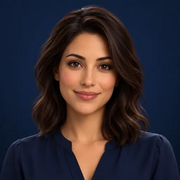
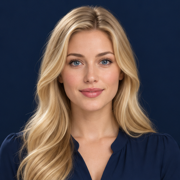
Animate blonde Clara and enable mobile voice replies with English UI

diff --git a/static/companion-voice.js b/static/companion-voice.js
@@ -17,29 +17,42 @@
     const SpeechInput = win.SpeechRecognition || win.webkitSpeechRecognition;
     const synth = win.speechSynthesis;
     let recognition = null, speaking = false, thinking = false, session = 0, preferred = '', greeted = false;
+    // Keep native utterances alive until completion (important on Safari/iOS).
+    let currentUtterance = null, primeUtterance = null, unlocked = false, lastContent = '', watchdog = null;
+    const greeting = 'I am Clara, your AI assistant. What do you wanna talk about?';
+    function clearWatchdog() { if (watchdog !== null && win.clearTimeout) win.clearTimeout(watchdog); watchdog = null; }
+    function unlock() {
+      if (!synth || !win.SpeechSynthesisUtterance) return;
+      if (synth.resume) synth.resume();
+      if (!unlocked) {
+        unlocked = true; primeUtterance = new win.SpeechSynthesisUtterance(' ');
+        primeUtterance.volume = 0; primeUtterance.onend = () => { primeUtterance = null; };
+        primeUtterance.onerror = () => { primeUtterance = null; };
+        try { synth.speak(primeUtterance); } catch (_) { unlocked = false; primeUtterance = null; }
+      }
+    }
     function save(key, value) { try { win.localStorage.setItem(key, value); } catch (_) {} }
     function read(key) { try { return win.localStorage.getItem(key); } catch (_) { return null; } }
-    language.value = read('agentbroker-mic-language') === 'en-US' ? 'en-US' : 'ar-JO';
+    language.value = read('agentbroker-mic-language') === 'ar-JO' ? 'ar-JO' : 'en-US';
     preferred = read('agentbroker-voice') || '';
     function state(value) {
       avatar.dataset.state = value;
-      const en = language.value === 'en-US';
-      avatarStatus.textContent = ({idle:en?'Ready to chat':'جاهزة للحوار',listening:en?'Listening…':'بسمعك…',thinking:en?'Preparing a reply…':'بجهّز الرد…',speaking:en?'Speaking…':'بحكي معك…'})[value];
+      avatarStatus.textContent = ({idle:'Ready to chat',listening:'Listening…',thinking:'Preparing a reply…',speaking:'Speaking…'})[value];
       stop.hidden = value === 'idle' && !mode.checked;
     }
     function updateVoices() {
       const voices = synth ? synth.getVoices() : [];
       voiceSelect.replaceChildren();
-      const auto = doc.createElement('option'); auto.value = ''; auto.textContent = 'صوت نسائي إن توفر / Female voice when available'; voiceSelect.append(auto);
+      const auto = doc.createElement('option'); auto.value = ''; auto.textContent = 'Female voice when available'; voiceSelect.append(auto);
       for (const voice of voices.filter(v => /^(ar|en)(-|$)/i.test(v.lang))) {
         const option = doc.createElement('option'); option.value = voice.voiceURI; option.textContent = voice.name + ' · ' + voice.lang; voiceSelect.append(option);
       }
       voiceSelect.value = [...voiceSelect.options].some(o => o.value === preferred) ? preferred : '';
-      voiceHelp.textContent = 'الأصوات حسب جهازك؛ الاختيار تلقائي حسب لغة الرد. / Voices depend on your device and follow the reply language.';
+      voiceHelp.textContent = 'Voices depend on your device and follow the reply language. Download English and Arabic voices in your device settings if needed.';
     }
     voiceSelect.onchange = () => { preferred = voiceSelect.value; save('agentbroker-voice', preferred); };
     function halt() {
-      mode.checked = false; session++; speaking = false;
+      mode.checked = false; session++; speaking = false; clearWatchdog(); currentUtterance = null;
       if (recognition) recognition.abort();
       if (synth) synth.cancel();
       state(thinking ? 'thinking' : 'idle');
@@ -55,7 +68,7 @@
       input.lang = language.value;
       input.continuous = false; input.interimResults = true; input.maxAlternatives = 1;
       field.readOnly = true; language.disabled = true;
-      input.onstart = () => { if (active === session) { state('listening'); mic.textContent = 'إنهاء الاستماع / Finish'; status.textContent = 'بسمعك… / Listening…'; } };
+      input.onstart = () => { if (active === session) { state('listening'); mic.textContent = 'Finish listening'; status.textContent = 'Listening…'; } };
       input.onresult = event => {
         if (active !== session) return;
         heard = ''; let interim = '';
@@ -71,66 +84,87 @@
       input.onerror = event => {
         if (active !== session) return;
         failed = true; mode.checked = false;
-        const errors = {'not-allowed':'اسمح بالمايك من إعدادات المتصفح. / Allow microphone access in browser settings.', 'service-not-allowed':'التعرف الصوتي غير متاح هنا؛ استخدم إملاء لوحة المفاتيح. / Use keyboard dictation.', 'audio-capture':'المايك غير متاح؛ تحقق من توصيله. / Check your microphone.', 'no-speech':'ما سمعت كلام؛ اضغط المايك وجرب مجدداً. / No speech heard; tap the microphone to retry.', 'network':'تعذر الاتصال بخدمة الصوت؛ استخدم إملاء لوحة المفاتيح. / Speech service connection failed.'};
-        status.textContent = errors[event.error] || 'تعذر سماع الكلام؛ راجع لغة المايك أو استخدم إملاء لوحة المفاتيح. / Check the mic language or use keyboard dictation.';
+        const errors = {'not-allowed':'Allow microphone access in browser settings.', 'service-not-allowed':'Speech recognition unavailable; use keyboard dictation.', 'audio-capture':'Check your microphone.', 'no-speech':'No speech heard; tap the microphone to retry.', 'network':'Speech service connection failed; use keyboard dictation.'};
+        status.textContent = errors[event.error] || 'Check the mic language or use keyboard dictation.';
       };
       input.onend = () => {
         if (recognition === input) recognition = null;
         field.readOnly = thinking; language.disabled = false; transcript.textContent = '';
-        mic.textContent = '🎤 احكي / Speak';
+        mic.textContent = '🎤 Speak';
         if (active !== session) return;
         state('idle');
         if (!failed && heard.trim()) {
-          status.textContent = mode.checked ? 'جاري إرسال كلامك… / Sending…' : 'راجع الكلام ثم اضغط إرسال. / Review the transcript, then Send.';
+          status.textContent = mode.checked ? 'Sending…' : 'Review the transcript, then Send.';
           if (mode.checked) get('companion-form').requestSubmit();
         } else if (!failed) {
           mode.checked = false;
-          status.textContent = 'ما وصل نص واضح؛ جرّب مجدداً. / No clear transcript; try again.';
+          status.textContent = 'No clear transcript; try again.';
         }
       };
       try { state('listening'); input.start(); }
-      catch (_) { recognition = null; field.readOnly = false; language.disabled = false; halt(); status.textContent = 'تعذر تشغيل المايك؛ استخدم إملاء لوحة المفاتيح. / Use keyboard dictation.'; }
+      catch (_) { recognition = null; field.readOnly = false; language.disabled = false; halt(); status.textContent = 'Microphone unavailable; use keyboard dictation.'; }
     }
     function speak(content, keepInputLanguage = false) {
       if (!synth || !win.SpeechSynthesisUtterance) {
-        mode.checked = false; status.textContent = 'الصوت غير مدعوم هنا. / Speech playback unavailable.'; state('idle'); return;
+        mode.checked = false; status.textContent = 'Speech playback unavailable. Open Clara in Safari or Chrome.'; state('idle'); return;
       }
+      content = String(content || '').trim(); if (!content) return;
+      lastContent = content; unlocked = true; clearWatchdog();
       session++; const active = session;
       if (recognition) recognition.abort();
-      synth.cancel();
-      const utterance = new win.SpeechSynthesisUtterance(content);
-      utterance.lang = isArabic(content) ? 'ar-JO' : 'en-US';
-      const selected = chooseVoice(synth.getVoices(), utterance.lang, preferred);
-      if (selected) utterance.voice = selected;
-      if (mode.checked && !keepInputLanguage) { language.value = isArabic(content) ? 'ar-JO' : 'en-US'; save('agentbroker-mic-language', language.value); }
-      utterance.rate = 1;
-      utterance.onstart = () => { if (active === session) { speaking = true; state('speaking'); status.textContent = ''; } };
-      utterance.onend = () => {
+      synth.cancel(); if (synth.resume) synth.resume();
+      const lang = isArabic(content) ? 'ar-JO' : 'en-US';
+      if (mode.checked && !keepInputLanguage) { language.value = lang; save('agentbroker-mic-language', language.value); }
+      // Short chunks avoid long-utterance stalls in mobile speech engines.
+      const words = content.split(/\s+/), chunks = []; let chunk = '';
+      for (const word of words) { if (chunk && (chunk+' '+word).length > 180) { chunks.push(chunk); chunk=''; } chunk += (chunk?' ':'')+word; }
+      if (chunk) chunks.push(chunk);
+      function audioFailed() {
         if (active !== session) return;
-        speaking = false; state('idle');
-        if (mode.checked && !doc.hidden) listen();
-      };
-      utterance.onerror = () => {
-        if (active !== session) return;
-        speaking = false; mode.checked = false; state('idle');
-        status.textContent = 'تعذر تشغيل الصوت؛ اضغط اسمع لإعادة المحاولة. / Audio failed; tap Listen to retry.';
-      };
-      synth.speak(utterance);
+        clearWatchdog(); session++; speaking = false; mode.checked = false; currentUtterance = null; synth.cancel(); state('idle');
+        status.textContent = 'Audio could not start. Tap Clara or Listen to play the reply. Check your device volume and selected voice.';
+      }
+      function play(index) {
+        if (active !== session || doc.hidden) return;
+        const utterance = new win.SpeechSynthesisUtterance(chunks[index]); currentUtterance = utterance;
+        utterance.lang = lang;
+        const selected = chooseVoice(synth.getVoices(), lang, preferred);
+        if (selected) utterance.voice = selected;
+        utterance.rate = 1; utterance.volume = 1;
+        utterance.onstart = () => {
+          if (active !== session) return;
+          clearWatchdog(); speaking = true; state('speaking'); status.textContent = '';
+          const help = get('audio-help'); if (help) help.textContent = 'Voice enabled. Replies are read aloud while this page is open.';
+        };
+        utterance.onend = () => {
+          if (active !== session) return;
+          clearWatchdog(); currentUtterance = null;
+          if (index+1 < chunks.length) { play(index+1); return; }
+          speaking = false; state('idle');
+          if (mode.checked && !doc.hidden) listen();
+        };
+        utterance.onerror = audioFailed;
+        if (win.setTimeout) watchdog = win.setTimeout(audioFailed, 5000);
+        try { synth.speak(utterance); } catch (_) { audioFailed(); }
+      }
+      play(0);
     }
-    mic.onclick = listen;
-    stop.onclick = () => { halt(); status.textContent = 'توقفت المحادثة الصوتية. / Voice conversation stopped.'; };
+    // This is a deliberate user gesture, so it also works as Safari's audio unlock.
+    avatar.onclick = () => { if (thinking) return; speak(lastContent || greeting, true); };
+    mic.onclick = () => { unlock(); listen(); };
+    stop.onclick = () => { halt(); status.textContent = 'Voice conversation stopped.'; };
     mode.onchange = () => {
       if (!mode.checked) { halt(); return; }
-      if (!synth) { halt(); status.textContent = 'الصوت غير مدعوم هنا. / Speech playback unavailable.'; return; }
-      if (!greeted) { greeted = true; speak('I am Clara, your AI assistant. What do you wanna talk about?', true); }
+      if (!synth) { halt(); status.textContent = 'Speech playback unavailable. Open Clara in Safari or Chrome.'; return; }
+      if (!greeted) { greeted = true; speak(greeting, true); }
       else listen();
     };
     language.onchange = () => { save('agentbroker-mic-language', language.value); state('idle'); };
     doc.addEventListener('visibilitychange', () => { if (doc.hidden) halt(); });
-    if (!SpeechInput) { mic.disabled = true; mode.disabled = true; status.textContent = 'استخدم مايك لوحة المفاتيح؛ التعرف الصوتي غير مدعوم بهذا المتصفح. / Use keyboard dictation in this browser.'; }
+    if (!SpeechInput) { mic.disabled = true; mode.disabled = true; status.textContent = 'Speech input unavailable here. Use keyboard dictation; spoken replies are still available.'; }
     if (synth && synth.addEventListener) synth.addEventListener('voiceschanged', updateVoices);
     updateVoices(); state('idle');
-    return {speak, halt, active:() => mode.checked, thinking(value) { thinking = value; if (value) { session++; if (recognition) recognition.abort(); if (synth) synth.cancel(); speaking = false; state('thinking'); } else if (!speaking) state('idle'); }, failed(message) { halt(); status.textContent = message; }};
+    return {speak, halt, unlock, remember:content => {lastContent=content;}, active:() => mode.checked, thinking(value) { thinking = value; if (value) { clearWatchdog(); currentUtterance = null; session++; if (recognition) recognition.abort(); if (synth) synth.cancel(); speaking = false; state('thinking'); } else if (!speaking) state('idle'); }, failed(message) { halt(); status.textContent = message; }};
   }
   const api = {chooseVoice, init};
   if (typeof module !== 'undefined' && module.exports) module.exports = api;

diff --git a/templates/clara.html b/templates/clara.html
@@ -1,26 +1,27 @@
 <!doctype html>
-<html lang="ar" dir="rtl">
+<html lang="en" dir="ltr">
 <head>
 <meta charset="utf-8"><meta name="viewport" content="width=device-width,initial-scale=1,viewport-fit=cover">
 <meta name="theme-color" content="#0e1423"><meta name="apple-mobile-web-app-capable" content="yes"><meta name="apple-mobile-web-app-status-bar-style" content="black-translucent"><meta name="apple-mobile-web-app-title" content="Clara">
 <link rel="manifest" href="/clara/manifest.webmanifest"><link rel="apple-touch-icon" href="/static/clara-icon-180.png">
-<link rel="stylesheet" href="/static/clara-app.css"><title>Clara</title>
+<link rel="stylesheet" href="/static/clara-app.css?v=2"><title>Clara</title>
 </head>
 <body><main>
-<header><span class="brand" lang="en">Clara<span>YOUR AI ASSISTANT</span></span><button id="logout" type="button" hidden>خروج</button></header>
-<form id="login-form" class="login"><h1>أهلاً في مساحتك الخاصة</h1><p>دردشة، صوت، وكاميرا مع كلارا.</p><label for="login-secret">كلمة الدخول</label><input id="login-secret" type="password" autocomplete="current-password" required><button type="submit">دخول / Sign in</button></form>
+<header><span class="brand">Clara<span>YOUR AI ASSISTANT</span></span><button id="logout" type="button" hidden>Sign out</button></header>
+<form id="login-form" class="login"><div class="login-portrait" role="img" aria-label="Clara, a blonde animated AI assistant"><span class="avatar-face"></span></div><h1>Welcome to your private space</h1><p>Chat, voice, and camera with Clara.</p><label for="login-secret">Access password</label><input id="login-secret" type="password" autocomplete="current-password" required><button type="submit">Sign in</button></form>
 <p id="login-status" class="status" dir="auto" role="status"></p>
 <div id="private-ui" hidden>
-<section class="presence"><div id="companion-avatar" class="avatar" data-state="idle" aria-hidden="true"><img src="/static/companion-avatar.webp" alt="" width="112" height="112"><span class="voice-wave"><i></i><i></i><i></i><i></i><i></i></span></div><div><h1 lang="en">Clara</h1><p id="avatar-status" role="status" aria-live="polite">جاهزة للحوار</p><small>شخصية افتراضية بالذكاء الاصطناعي</small></div></section>
-<p class="greeting" dir="ltr" lang="en">I am Clara, your AI assistant.<br>What do you wanna talk about?</p>
-<div id="companion-messages" role="log" aria-label="المحادثة" aria-live="polite"></div>
+<section class="presence"><button id="companion-avatar" type="button" class="avatar animated-avatar" data-state="idle" aria-label="Clara: play greeting or latest reply"><span class="avatar-face" aria-hidden="true"></span><span class="voice-wave" aria-hidden="true"><i></i><i></i><i></i><i></i><i></i></span></button><div><h1>Clara</h1><p id="avatar-status" role="status" aria-live="polite">Ready to chat</p><small>Your animated AI assistant</small><p class="avatar-hint">Tap Clara to hear her</p></div></section>
+<p class="greeting">I am Clara, your AI assistant.<br>What do you wanna talk about?</p>
+<div class="audio-start"><button id="companion-enable-audio" type="button">🔊 Enable voice</button><span id="audio-help" class="status">Tap once to enable spoken replies on this device.</span></div>
+<div id="companion-messages" role="log" aria-label="Conversation" aria-live="polite"></div>
 <p id="companion-status" class="status" dir="auto" role="status"></p>
-<section id="camera-panel" hidden aria-label="Camera preview"><video id="camera-preview" autoplay playsinline muted hidden></video><img id="camera-snapshot" alt="لقطة جاهزة للإرسال / Image ready to send" hidden><p id="camera-status" class="status" dir="auto" role="status"></p><div class="actions"><button id="camera-attach" type="button" hidden>إرفاق لقطة / Attach still</button><button id="camera-stop" type="button" hidden>إيقاف الكاميرا / Stop</button><button id="camera-discard" type="button" hidden>حذف اللقطة / Remove</button></div></section>
-<section id="document-panel" hidden aria-label="الوثيقة المرفقة"><p id="document-status" class="status" role="status"></p><label for="document-action">المطلوب</label><select id="document-action"><option value="edit">تعديل نسخة / Edit a copy</option><option value="review">قراءة ومراجعة / Review</option></select><details><summary>معاينة النص</summary><pre id="document-preview" dir="auto"></pre></details><button id="document-remove" type="button">فصل الوثيقة / Detach</button><p class="status">Word وTXT للتعديل، وPDF النصّي للمراجعة. حتى 1.8 MB. النص يُشارك مع النموذج المجاني عند إرسال طلبك. الأصل محفوظ، والنسخة المعدّلة تحتاج مراجعة التنسيق.</p></section>
-<form id="companion-form" class="composer"><label class="sr-only" for="companion-input">رسالتك / Your message</label><textarea id="companion-input" maxlength="2000" dir="auto" required placeholder="احكيلي… / Talk to me…" rows="2"></textarea><p id="companion-transcript" class="status" dir="auto" aria-live="polite"></p>
-<div class="actions"><button id="companion-send" type="submit" class="primary">إرسال</button><button id="companion-mic" type="button">🎤 احكي / Speak</button><button id="companion-attach" type="button">📎 وثيقة</button><input id="document-file" type="file" accept=".docx,.txt,.pdf" hidden><button id="companion-camera" type="button">📷 كاميرا / Camera</button><button id="companion-stop" type="button" hidden>إيقاف / Stop</button></div>
-<div class="voice-controls"><label class="voice-mode"><input id="companion-voice-mode" type="checkbox"> محادثة صوتية</label><label class="mic-label" for="companion-mic-language">لغة المايك<select id="companion-mic-language"><option value="ar-JO">العربية</option><option value="en-US">English</option></select></label></div><p id="companion-voice-status" class="status" dir="auto" role="status" aria-live="polite"></p>
+<section id="camera-panel" hidden aria-label="Camera preview"><video id="camera-preview" autoplay playsinline muted hidden></video><img id="camera-snapshot" alt="Image ready to send" hidden><p id="camera-status" class="status" dir="auto" role="status"></p><div class="actions"><button id="camera-attach" type="button" hidden>Attach still</button><button id="camera-stop" type="button" hidden>Stop camera</button><button id="camera-discard" type="button" hidden>Remove image</button></div></section>
+<section id="document-panel" hidden aria-label="Attached document"><p id="document-status" class="status" role="status"></p><label for="document-action">Action</label><select id="document-action"><option value="edit">Edit a copy</option><option value="review">Read and review</option></select><details><summary>Text preview</summary><pre id="document-preview" dir="auto"></pre></details><button id="document-remove" type="button">Detach document</button><p class="status">Edit Word and TXT; review text PDFs. Up to 1.8 MB. Text is shared with the free model when you send your request. The original is preserved. Review the edited copy's content and layout.</p></section>
+<form id="companion-form" class="composer"><label class="sr-only" for="companion-input">Your message</label><textarea id="companion-input" maxlength="2000" dir="auto" required placeholder="Talk to me… English or العربية" rows="2"></textarea><p id="companion-transcript" class="status" dir="auto" aria-live="polite"></p>
+<div class="actions"><button id="companion-send" type="submit" class="primary">Send</button><button id="companion-mic" type="button">🎤 Speak</button><button id="companion-attach" type="button">📎 Document</button><input id="document-file" type="file" accept=".docx,.txt,.pdf" hidden><button id="companion-camera" type="button">📷 Camera</button><button id="companion-stop" type="button" hidden>Stop</button></div>
+<div class="voice-controls"><label class="voice-mode"><input id="companion-voice-mode" type="checkbox"> Hands-free conversation</label><label class="mic-label" for="companion-mic-language">Mic language<select id="companion-mic-language"><option value="en-US">English</option><option value="ar-JO">العربية</option></select></label></div><p id="companion-voice-status" class="status" dir="auto" role="status" aria-live="polite"></p>
 </form>
-<details class="settings"><summary>الإعدادات / Settings</summary><p class="status">الرد يتبع لغة رسالتك تلقائياً. التعرف الصوتي يحتاج اختيار لغة المايك. / Replies match your message. Choose the input language before speaking.</p><label for="companion-tone">أسلوب كلارا / Tone</label><select id="companion-tone"><option value="auto">حسب الحوار / Auto</option><option value="playful">مرحة ومشاكسة / Playful</option><option value="funny">فكاهية / Funny</option><option value="serious">جدية / Serious</option></select><label for="companion-voice">الصوت / Voice</label><select id="companion-voice"><option value="">صوت نسائي إن توفر</option></select><p id="companion-voice-help" class="status" dir="auto"></p><label class="inline"><input id="companion-autospeak" type="checkbox"> قراءة الردود بصوت / Read replies aloud</label><p class="status">الميكروفون عند الضغط فقط؛ قد يعالج مزود المتصفح صوتك. / Your browser's speech provider may process microphone audio.</p><details><summary>مراجعي ومعلوماتي الخاصة</summary><p id="advisor-status" class="status"></p><button id="history-export" type="button">تنزيل نسخة من محادثاتي / Export chat</button><label for="profile-file">استيراد ملف معلوماتي الخاص (JSON)</label><input id="profile-file" type="file" accept=".json,application/json"><button id="profile-import" type="button">استيراد</button><p class="status">تُشارك المعلومات ذات الصلة فقط مع مزود النموذج للإجابة؛ لا توضع في الكود العام.</p></details></details>
+<details class="settings"><summary>Settings</summary><p class="status">Replies follow your message's language automatically. Choose the mic input language before speaking. Animation follows speech activity; mouth movements are approximate.</p><label for="companion-tone">Clara's tone</label><select id="companion-tone"><option value="auto">Follow the conversation</option><option value="playful">Playful</option><option value="funny">Funny</option><option value="serious">Serious</option></select><label for="companion-voice">Voice</label><select id="companion-voice"><option value="">Female voice when available</option></select><p id="companion-voice-help" class="status" dir="auto"></p><label class="inline"><input id="companion-autospeak" type="checkbox" checked> Speak replies automatically</label><p class="status">Microphone starts only when requested. Your browser's speech provider may process the audio. Female voices depend on your device.</p><details><summary>My references and private information</summary><p id="advisor-status" class="status"></p><button id="history-export" type="button">Export my conversations</button><label for="profile-file">Import my private profile (JSON)</label><input id="profile-file" type="file" accept=".json,application/json"><button id="profile-import" type="button">Import</button><p class="status">Relevant private context is shared with the model provider to answer you, and is excluded from public code.</p></details></details>
 </div><footer>Clara · AgentBroker</footer>
-</main><script src="/static/companion-voice.js"></script><script src="/static/companion-camera.js"></script><script src="/static/clara-chat.js"></script></body></html>
+</main><script src="/static/companion-voice.js?v=2"></script><script src="/static/companion-camera.js?v=2"></script><script src="/static/clara-chat.js?v=2"></script></body></html>

diff --git a/static/clara-chat.js b/static/clara-chat.js
@@ -7,7 +7,7 @@ let busy=false, attachedDocument=null, uploadingDocument=false;
 async function api(path,body) {
   const response=await fetch(path,{method:body===undefined?'GET':'POST',cache:'no-store',headers:{'Content-Type':'application/json','X-AgentBroker-Request':'1'},body:body===undefined?undefined:JSON.stringify(body)});
   const data=await response.json();
-  if(!response.ok) {if(response.status===401){el('private-ui').hidden=true;el('login-form').hidden=false;voice.halt();camera.close();}throw new Error(data.error||'تعذر الاتصال / Request failed');}
+  if(!response.ok) {if(response.status===401){el('private-ui').hidden=true;el('login-form').hidden=false;voice.halt();camera.close();}throw new Error(data.error||'Request failed');}
   return data;
 }
 function render(data) {
@@ -16,13 +16,13 @@ function render(data) {
     const card=document.createElement('article');card.className='message '+message.role;card.dir='auto';
     const label=document.createElement('strong');label.textContent=message.role==='user'?(/[\u0621-\u064a]/.test(message.content)?'أنت':'You'):'Clara';
     const text=document.createElement('p');text.textContent=message.content;card.append(label,text);
-    if(message.role==='assistant'){const listen=document.createElement('button');listen.type='button';listen.textContent='🔊 اسمع / Listen';listen.onclick=()=>voice.speak(message.content);card.append(listen);}
+    if(message.role==='assistant'){const listen=document.createElement('button');listen.type='button';listen.textContent='🔊 Listen';listen.onclick=()=>voice.speak(message.content);card.append(listen);}
     container.append(card);
   }
   container.scrollTop=container.scrollHeight;
-  el('companion-status').textContent=data.status==='free_model_unavailable'?'النموذج غير متاح حالياً. / Model unavailable.':'';
+  el('companion-status').textContent=data.status==='free_model_unavailable'?'Model unavailable. Please try again later.':'';
 }
-async function advisor() {try{const data=await api('/companion/advisor/status');el('advisor-status').textContent='المراجع المحفوظة: '+data.documents.length+' · معلوماتك الخاصة: '+data.profile_entries+' · رسائل محفوظة: '+data.archived_messages+' · دوام التخزين ونفاذ النصوص غير متحققين.';}catch(_) {}}
+async function advisor() {try{const data=await api('/companion/advisor/status');el('advisor-status').textContent='Saved references: '+data.documents.length+' · Private profile entries: '+data.profile_entries+' · Archived messages: '+data.archived_messages+' · Storage durability and legal currency are unverified.';}catch(_) {}}
 async function loginStatus() {
   const data=await api('/session/status');
   el('private-ui').hidden=!data.authenticated;el('login-form').hidden=data.authenticated;el('logout').hidden=!data.authenticated;
@@ -32,27 +32,29 @@ el('login-form').onsubmit=async event=>{event.preventDefault();try{await api('/s
 el('logout').onclick=async()=>{voice.halt();camera.close();camera.clear();await api('/session/logout',{});await loginStatus();};
 el('companion-form').onsubmit=async event=>{
   event.preventDefault();const field=el('companion-input');if(busy||uploadingDocument||!field.value.trim())return;
-  if(camera.frame()&&voice.active()&&!event.submitter){voice.failed('اضغط إرسال يدوياً لإرسال اللقطة. / Tap Send manually to share the image.');return;}
-  if(attachedDocument && camera.frame()){voice.failed('أرسل الوثيقة والصورة بطلبين منفصلين. / Send the document and image separately.');return;}
-  busy=true;el('companion-send').disabled=true;field.readOnly=true;voice.thinking(true);el('companion-status').textContent='';
+  if(camera.frame()&&voice.active()&&!event.submitter){voice.failed('Tap Send manually to share the image.');return;}
+  if(attachedDocument && camera.frame()){voice.failed('Send the document and image separately.');return;}
+  voice.unlock();busy=true;el('companion-send').disabled=true;field.readOnly=true;voice.thinking(true);el('companion-status').textContent='';
   try {
     const data=attachedDocument
       ? await api('/companion/files/'+attachedDocument.id+'/work',{instruction:field.value,action:el('document-action').value})
       : await api('/companion/messages',{content:field.value,reply_language:'auto',tone:el('companion-tone').value,camera_image:camera.frame()});
     field.value='';camera.clear();render(data);voice.thinking(false);
     if(data.download){
-      const link=document.createElement('a');link.href=data.download;link.className='download-link';link.textContent='تنزيل النسخة المعدّلة / Download edited copy';
+      const link=document.createElement('a');link.href=data.download;link.className='download-link';link.textContent='Download edited copy';
       el('companion-messages').append(link);
-      const review=document.createElement('details'),title=document.createElement('summary');title.textContent='التغييرات / Changes';review.append(title);
+      const review=document.createElement('details'),title=document.createElement('summary');title.textContent='Changes';review.append(title);
       for(const edit of data.edits||[]){const text=document.createElement('p');text.dir='auto';text.textContent=edit.old+' → '+edit.new;review.append(text);}el('companion-messages').append(review);
-      el('companion-status').textContent='الأصل محفوظ؛ راجع المحتوى والتنسيق قبل الاعتماد. / Original preserved; review content and layout.';
+      el('companion-status').textContent='Original preserved; review content and layout.';
     }
     const last=(data.messages||[]).at(-1);
+    if(last&&last.role==='assistant')voice.remember(last.content);
     if(last&&last.role==='assistant'&&(voice.active()||el('companion-autospeak').checked))voice.speak(last.content);
   }catch(error){voice.thinking(false);voice.failed(error.message);el('companion-status').textContent=error.message;}
   finally{busy=false;el('companion-send').disabled=false;field.readOnly=false;}
 };
-el('profile-import').onclick=async function(){const file=el('profile-file').files[0];if(!file)return;if(file.size>100000){el('advisor-status').textContent='الملف كبير جداً.';return;}this.disabled=true;try{const data=JSON.parse(await file.text());await api('/companion/profile',{confirm_private_import:true,entries:data.entries});el('profile-file').value='';await advisor();}catch(error){el('advisor-status').textContent=error.message;}finally{this.disabled=false;}};
+el('profile-import').onclick=async function(){const file=el('profile-file').files[0];if(!file)return;if(file.size>100000){el('advisor-status').textContent='The file is too large.';return;}this.disabled=true;try{const data=JSON.parse(await file.text());await api('/companion/profile',{confirm_private_import:true,entries:data.entries});el('profile-file').value='';await advisor();}catch(error){el('advisor-status').textContent=error.message;}finally{this.disabled=false;}};
+el('companion-enable-audio').onclick=()=>{el('companion-autospeak').checked=true;voice.speak('I am Clara, your AI assistant. What do you wanna talk about?',true);};
 loginStatus().catch(error=>{el('login-status').textContent=error.message;});
 
 el('history-export').onclick=async function(){this.disabled=true;try{let after=0,rows=[],more=true;while(more){const page=await api('/companion/history/export?after='+after);rows.push(...page.messages);more=page.has_more;after=page.next_after;if(!after)break;}const blob=new Blob([JSON.stringify({version:1,messages:rows},null,2)],{type:'application/json'});const url=URL.createObjectURL(blob);const link=document.createElement('a');link.href=url;link.download='Clara-private-chat.json';link.click();setTimeout(()=>URL.revokeObjectURL(url),1000);}catch(error){el('advisor-status').textContent=error.message;}finally{this.disabled=false;}};
@@ -60,14 +62,14 @@ el('history-export').onclick=async function(){this.disabled=true;try{let after=0
 el('companion-attach').onclick=()=>el('document-file').click();
 el('document-file').onchange=async()=>{
  const file=el('document-file').files[0];if(!file||uploadingDocument)return;uploadingDocument=true;el('companion-attach').disabled=true;
- el('document-panel').hidden=false;el('document-status').textContent='جاري قراءة الوثيقة… / Reading…';
+ el('document-panel').hidden=false;el('document-status').textContent='Reading document…';
  attachedDocument=null;el('companion-send').disabled=true;
  try{
-  if(file.size>1800000)throw new Error('الحد 1.8 MB؛ أرسل جزءاً من الملف. / Upload a section under 1.8 MB.');
+  if(file.size>1800000)throw new Error('Upload a section under 1.8 MB.');
   const form=new FormData();form.append('file',file);
   const response=await fetch('/companion/files',{method:'POST',headers:{'X-AgentBroker-Request':'1'},body:form});
   const data=await response.json();if(!response.ok)throw new Error(data.error||'Upload failed');
-  attachedDocument=data;el('document-status').textContent=data.name+' · '+data.characters+' حرف';el('document-preview').textContent=data.preview;
+  attachedDocument=data;el('document-status').textContent=data.name+' · '+data.characters+' characters';el('document-preview').textContent=data.preview;
   el('document-action').querySelector('option[value="edit"]').disabled=data.kind==='pdf';el('document-action').value=data.kind==='pdf'?'review':'edit';
   el('companion-input').focus();
  }catch(error){el('document-status').textContent=error.message;}

diff --git a/static/clara-app.css b/static/clara-app.css
@@ -1,3 +1,20 @@
 :root{color-scheme:dark;font-family:system-ui,-apple-system,sans-serif;background:#0e1423;color:#edf1fa}*{box-sizing:border-box}body{margin:0}main{max-width:780px;margin:auto;padding:max(18px,env(safe-area-inset-top)) 18px max(16px,env(safe-area-inset-bottom))}header{display:flex;justify-content:space-between;align-items:center;margin-bottom:26px}.brand{font-size:25px;font-weight:650;letter-spacing:1px}.brand span{display:block;color:#a7aec4;font-size:9px;letter-spacing:3px;margin-top:4px}h1{font-size:26px;margin:0}.presence{display:flex;align-items:center;justify-content:center;gap:22px;margin:26px 0 20px}.presence p{margin:10px 0;color:#b7c7e2}.presence small{color:#9eabc2;font-size:11px}.avatar{position:relative;width:112px;height:112px;flex-shrink:0;border:3px solid #597294;border-radius:50%;box-shadow:0 0 35px #80aaff15}.avatar img{width:100%;height:100%;border-radius:50%;object-fit:cover}.avatar[data-state=listening]{border-color:#83e6be;animation:pulse 1.5s infinite}.avatar[data-state=thinking]{border-color:#b3a1ef;border-style:dashed;animation:pulse 2s infinite}.avatar[data-state=speaking]{border-color:#a4c5fa;animation:pulse 1s infinite}.voice-wave{position:absolute;bottom:-8px;left:22px;display:none;align-items:center;justify-content:center;gap:4px;width:62px;height:24px;border-radius:14px;background:#233354}.avatar[data-state=speaking] .voice-wave{display:flex}.voice-wave i{width:4px;height:7px;background:#c5d8ff;border-radius:3px;animation:wave .7s infinite alternate}.voice-wave i:nth-child(2n){animation-delay:.2s}.voice-wave i:nth-child(3n){animation-delay:.4s}@keyframes pulse{50%{box-shadow:0 0 0 8px #a2baff12,0 0 30px #a2baff20}}@keyframes wave{to{height:18px}}.greeting{text-align:center;color:#b9c7e1;font-size:15px;line-height:1.7;margin:18px 0 26px}.status{font-size:13px;color:#b2bfd6;line-height:1.6}.status:empty{display:none}button{background:#25324c;border:1px solid #3d4e6c;border-radius:12px;padding:10px 13px;min-height:44px;color:#edf1fa;cursor:pointer;font:inherit;font-size:13px}button.primary{background:#a7bdf2;color:#101a30;border:0;font-weight:650}button:disabled{opacity:.55;cursor:wait}input,textarea,select{font:inherit;color:inherit;background:#131d30;border:1px solid #3b4e6a;border-radius:12px;padding:11px;width:100%}textarea{resize:vertical;min-height:80px;max-height:220px;line-height:1.6}label{display:block;margin:14px 0 7px}input[type=checkbox]{width:auto;accent-color:#a7bdf2;margin-inline-end:7px}.inline{display:flex;align-items:center}.composer{border:1px solid #354462;border-radius:18px;padding:12px;background:#141e32}.composer textarea{border:0;background:transparent;padding:5px 4px;outline-offset:3px}.actions{display:flex;gap:7px;flex-wrap:wrap;margin-top:10px}.voice-controls{display:flex;align-items:center;justify-content:space-between;gap:12px;margin-top:10px}.voice-mode{font-size:13px;margin:0}.mic-label{font-size:11px;margin:0;display:flex;align-items:center;gap:8px;color:#aebdd7}.mic-label select{width:auto;padding:7px;font-size:12px}.settings{margin:20px 0;padding:14px;border-top:1px solid #29364c;color:#b9c8df;font-size:13px}.settings summary{cursor:pointer}.settings details{margin-top:18px}.login{padding:24px;border:1px solid #354462;border-radius:18px}.login h1{font-size:22px}.login button{margin-top:15px}footer{text-align:center;font-size:11px;color:#8e9cb4;margin:20px 0 4px}#companion-messages{max-height:45dvh;overflow:auto;scrollbar-width:thin;margin-bottom:18px}.message{white-space:pre-wrap;overflow-wrap:anywhere;line-height:1.75;padding:14px 16px;border-radius:16px;margin:10px 0;background:#18243a;border:1px solid #293a55}.message.user{background:#263c61;margin-inline-start:12%}.message.assistant{margin-inline-end:4%}.message p{margin:4px 0}.message strong{font-size:12px;color:#a9bfe3}.message button{font-size:11px;min-height:36px;padding:5px 9px;margin-top:8px}#camera-panel{padding:12px;border:1px solid #354462;border-radius:14px;margin:12px 0}video{width:100%;max-height:240px;border-radius:10px;object-fit:contain}#camera-snapshot{max-width:180px;border-radius:10px}.sr-only{position:absolute;width:1px;height:1px;overflow:hidden;clip-path:inset(50%)}[hidden]{display:none!important}@media(max-width:400px){main{padding-inline:12px}.presence{gap:16px}.avatar{width:96px;height:96px}.voice-wave{left:14px}.voice-controls{align-items:start;flex-direction:column}.actions button{font-size:12px;padding:9px 10px}}@media(prefers-reduced-motion:reduce){.avatar,.voice-wave i{animation:none!important}}
 
 #document-panel{padding:14px;border:1px solid #354462;border-radius:14px;margin:12px 0}#document-preview{white-space:pre-wrap;max-height:160px;overflow:auto;font:inherit;font-size:12px}.download-link{display:inline-block;color:#c6d6ff;padding:8px;border:1px solid #4c638c;border-radius:8px;margin-top:8px}
+
+/* Four aligned portrait expressions: neutral, two speech shapes, and blink. */
+.animated-avatar{width:176px;height:176px;padding:0;overflow:visible;cursor:pointer;transform:perspective(500px) rotateY(0);transition:transform .3s,border-color .3s}
+.avatar-face{display:block;width:100%;height:100%;border-radius:50%;background-image:url('/static/clara-blonde-atlas.webp');background-size:200% 200%;background-position:0 0;animation:clara-blink 6.4s infinite steps(1)}
+.animated-avatar:hover,.animated-avatar:focus-visible{transform:perspective(500px) rotateY(-6deg) rotateZ(-2deg)}
+.animated-avatar:focus-visible{outline:3px solid #d7e4ff;outline-offset:6px}
+.animated-avatar[data-state=listening]{transform:rotate(-3deg)}
+.animated-avatar[data-state=thinking] .avatar-face{animation:clara-blink 3.5s infinite steps(1)}
+.animated-avatar[data-state=speaking] .avatar-face{animation:clara-talk .62s infinite steps(1)}
+.animated-avatar .voice-wave{left:calc(50% - 31px)}
+.avatar-hint{font-size:11px!important;color:#9eabc2!important}.audio-start{display:flex;align-items:center;justify-content:center;gap:12px;margin:8px 0 22px}.audio-start span{max-width:240px}.audio-start button{flex-shrink:0}
+@keyframes clara-talk{0%,100%{background-position:0 0}18%,62%{background-position:100% 0}40%,82%{background-position:0 100%}}
+@keyframes clara-blink{0%,93%,100%{background-position:0 0}95%,97%{background-position:100% 100%}}
+@media(max-width:400px){.animated-avatar{width:144px;height:144px}.audio-start{flex-direction:column;text-align:center}}
+@media(prefers-reduced-motion:reduce){.avatar-face{animation:none!important}.animated-avatar:hover,.animated-avatar:focus-visible{transform:none}}
+
+.login-portrait{width:148px;height:148px;margin:0 auto 24px;border:2px solid #597294;border-radius:50%;overflow:hidden}.login h1,.login>p{text-align:center}

diff --git a/static/companion-camera.js b/static/companion-camera.js
@@ -12,30 +12,30 @@
       generation++;
       if(stream) stream.getTracks().forEach(t=>t.stop());
       stream=null;video.srcObject=null;video.hidden=true;stop.hidden=true;attach.hidden=true;
-      button.disabled=false; button.textContent='📷 كاميرا / Camera';
+      button.disabled=false; button.textContent='Camera';
     }
     button.onclick=async()=>{
       if(stream) { close(); return; }
       const current=++generation;
-      if(!win.navigator.mediaDevices || !win.navigator.mediaDevices.getUserMedia) { status.textContent='الكاميرا غير متاحة هنا؛ افتح الموقع في متصفح يدعمها. / Camera unavailable.';panel.hidden=false;return; }
+      if(!win.navigator.mediaDevices || !win.navigator.mediaDevices.getUserMedia) { status.textContent='Camera unavailable.';panel.hidden=false;return; }
       button.disabled=true;panel.hidden=false;
       try {
         const camera=await win.navigator.mediaDevices.getUserMedia({video:{facingMode:'user',width:{ideal:768},height:{ideal:768}},audio:false});
         if(current!==generation || doc.hidden) { camera.getTracks().forEach(t=>t.stop());return; }
         stream=camera;video.srcObject=stream;video.hidden=false;stop.hidden=false;attach.hidden=false;
-        await video.play();button.textContent='📷 الكاميرا مفعلة / Camera on';
-        status.textContent='معاينة على جهازك فقط. «إرفاق لقطة» ثم «إرسال» يرسل صورة واحدة إلى نموذج OpenRouter المجاني. الصورة لا تُحفظ في سجل AgentBroker. / Local preview only; attach and send shares one image with the free model via OpenRouter, without saving image bytes in chat history.';
-      } catch(_) { close();status.textContent='تعذر تشغيل الكاميرا؛ راجع إذن الكاميرا في المتصفح. / Check camera permission.'; }
+        await video.play();button.textContent='Camera on';
+        status.textContent='Local preview only; attach and send shares one image with the free model via OpenRouter, without saving image bytes in chat history.';
+      } catch(_) { close();status.textContent='Check camera permission.'; }
       finally { button.disabled=false; }
     };
     attach.onclick=()=>{
-      if(!stream || !video.videoWidth) {status.textContent='انتظر ظهور المعاينة. / Wait for the preview.';return;}
+      if(!stream || !video.videoWidth) {status.textContent='Wait for the preview.';return;}
       const canvas=doc.createElement('canvas');
       const scale=Math.min(1,768/video.videoWidth,768/video.videoHeight);
       canvas.width=Math.round(video.videoWidth*scale);canvas.height=Math.round(video.videoHeight*scale);
       canvas.getContext('2d').drawImage(video,0,0,canvas.width,canvas.height);
       frame=canvas.toDataURL('image/jpeg',0.7);preview.src=frame;preview.hidden=false;discard.hidden=false;
-      close();status.textContent='لقطة جاهزة للمراجعة. اكتب سؤالك ثم أرسل، أو احذفها. / Review this still image, then type your question and send, or remove it.';
+      close();status.textContent='Review this still image, then type your question and send, or remove it.';
       get('companion-input').focus();
     };
     stop.onclick=close;discard.onclick=clear;

diff --git a/app.py b/app.py
@@ -194,7 +194,7 @@ def clara_app():
 def clara_manifest():
     response = jsonify(name='Clara — Your AI Assistant', short_name='Clara',
         id='/clara/', start_url='/clara/', scope='/clara/', display='standalone',
-        background_color='#0e1423', theme_color='#0e1423', lang='ar', dir='rtl',
+        background_color='#0e1423', theme_color='#0e1423', lang='en', dir='ltr',
         icons=[{'src':'/static/clara-icon-192.png','sizes':'192x192','type':'image/png'},
                {'src':'/static/clara-icon-512.png','sizes':'512x512','type':'image/png'}])
     response.mimetype='application/manifest+json'

diff --git a/README.md b/README.md
@@ -194,3 +194,26 @@ to review content and formatting before relying on an edited document. These
 checks validate deterministic edits; live model quality remains unverified.
 
 Document verification: `python -m unittest tests.test_clara_documents -v`.
+
+### Clara animated portrait and mobile voice update
+
+The focused `/clara/` interface and manifest now default to English/LTR while
+chat replies and speech still follow English/Arabic content. A generated fair-skinned
+adult blonde portrait atlas provides aligned neutral, two speaking, and blink
+expressions. CSS switches expressions during speech playback, blinks at rest and
+tilts while listening; tapping Clara replays the latest response (or greeting).
+These are approximate animated expressions, not phoneme-accurate lip sync or live video.
+Reduced-motion preferences disable expression animation.
+
+Spoken replies are enabled by default. **Enable voice** directly plays the greeting
+from a user gesture for mobile browsers; each assistant message also has Listen.
+The speech client retains native utterance references, resumes a paused synthesizer,
+chunks long replies, and gives a replay prompt if playback fails or never starts.
+The browser must supply working English/Arabic speech voices; actual iPhone volume,
+permissions and speech-engine behaviour still require device verification.
+
+Portrait prompt: a 2×2 atlas of one beautiful adult fair-skinned blonde woman, blue
+eyes, navy blouse, dark navy background, with identical framing for closed lips,
+open speech, rounded speech and blink. Generated using the built-in image tool;
+project assets: `static/clara-blonde-atlas.webp`, `static/companion-avatar.webp` and
+`static/clara-icon-*.png`.
